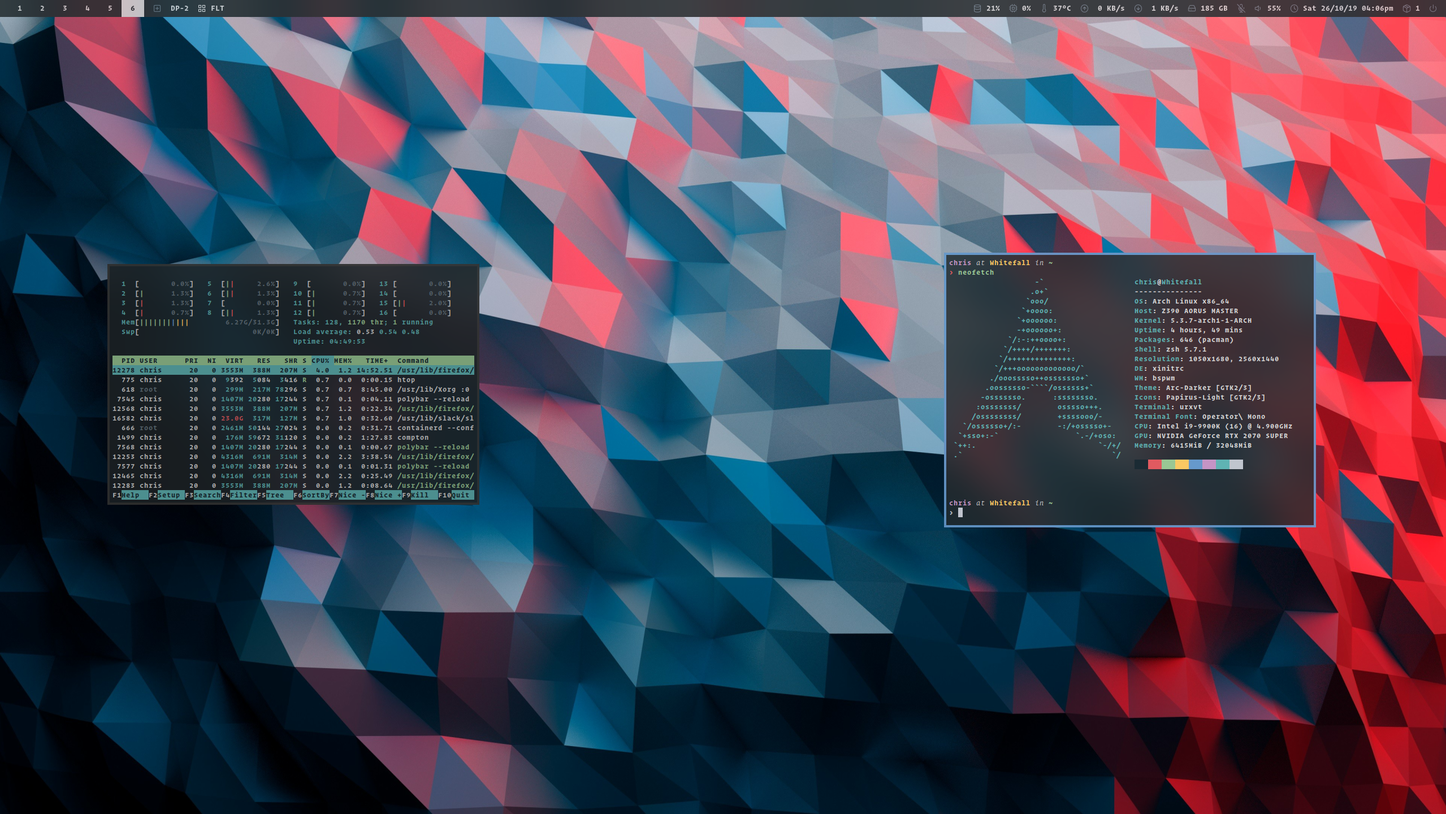
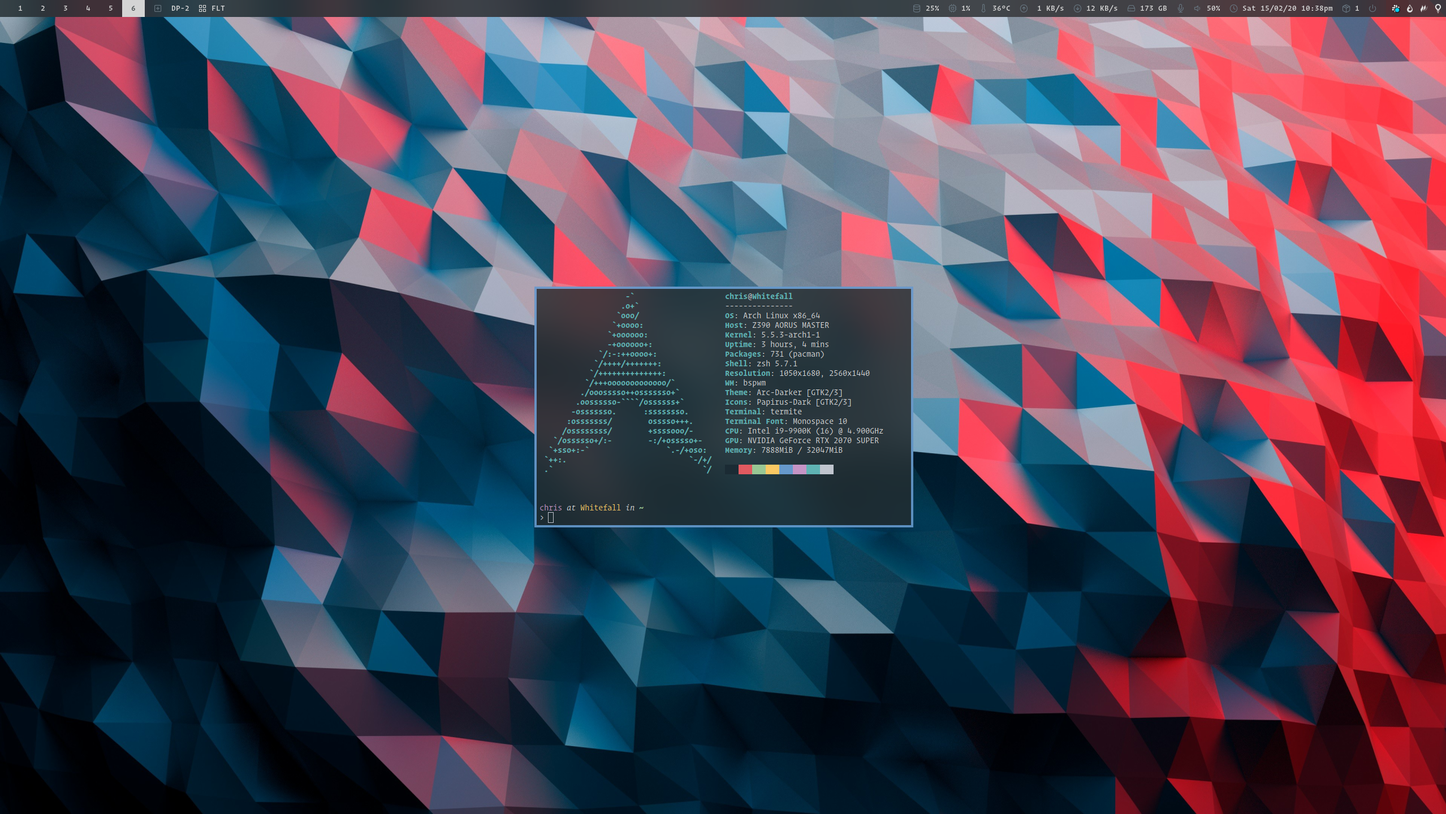
updated screenshots

diff --git a/README.md b/README.md
@@ -4,8 +4,6 @@ These dotfiles setup my terminal and desktop environment.
 
 ## Screenshots
 
-![terminal](screenshots/terminal.png)
-
 ![bspwm-desktop](screenshots/bspwm-desktop.png)
 
 ## Installation
